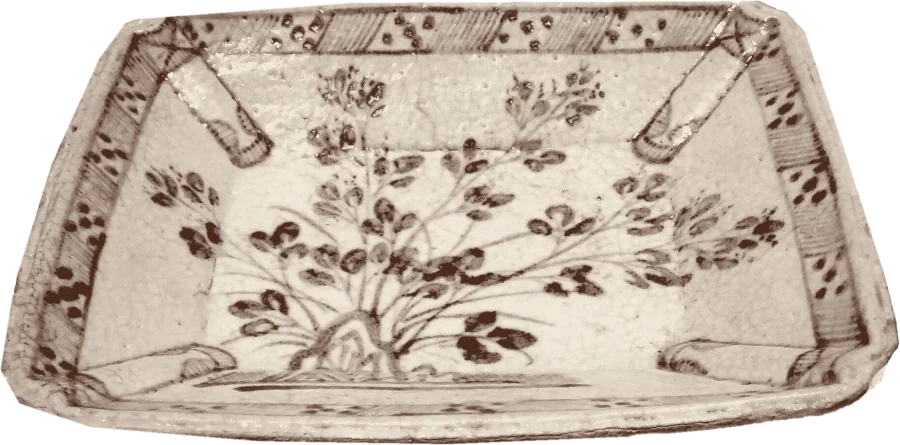
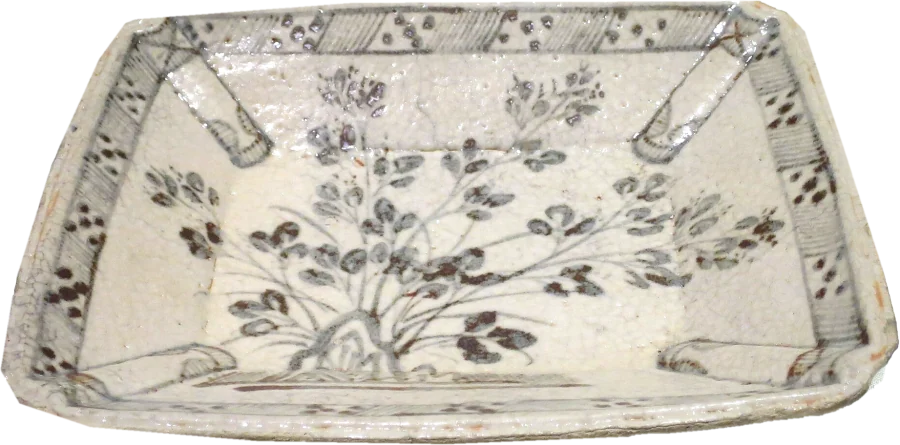
examples: 陶器市の器を写真の元の色に戻し、地・名前・印の色を器から取り直す
Claude-Session: https://claude.ai/code/session_01C7KHkfC2ABxbFbXkixZfP4

diff --git a/examples/toukiichi/index.html b/examples/toukiichi/index.html
@@ -22,8 +22,8 @@
   - 小さな手がかりは1つ：のぼり（最初の画面の「第三十八回」の縦の旗と、章の題の左の竿）。
 */
 :root{
-  --paper:#fff; --kinari:#f1e8d8; --kaiyu:#f1dccb; --sumi:#2a1a12; --rule:#d9cbb8; --mute:#4b4a5c; --pale:#f1e6d6;
-  --ai:#4a2a1c; --tsuchi:#2f5d45; --oribe:#2f5d45; --shu:#9a3b1e; --shino:#f1e8d8;
+  --paper:#fff; --kinari:#ebe4d6; --kaiyu:#f1dccb; --sumi:#2a1a12; --rule:#d9cbb8; --mute:#4b4a5c; --pale:#f1e6d6;
+  --ai:#4a3426; --tsuchi:#465c40; --oribe:#465c40; --shu:#9a3b1e; --shino:#ebe4d6;
   --fude:"Yuji Boku","Shippori Mincho B1",serif;
   --ease:cubic-bezier(.25,.46,.45,.94); --t1:.1s; --t2:.2s; --t3:.4s;
   --mincho:"Shippori Mincho B1","Hiragino Mincho ProN","Yu Mincho",serif;
@@ -257,14 +257,13 @@ dialog.skills::backdrop{background:rgba(26,23,20,.5)}
   *,*::before,*::after{transition-duration:0s!important;animation:none!important}
 }
 
-/* 最初の画面（2026-11-07 二度目）：雰囲気は窯の町の陶器市の世界から。織部の緑を1色に塗った地に、のぼりの筆の字で縦に大きく「瀬戸ノ口 陶器市」。
-   その前に、鉄釉の茶→志野の白の2色に置き換えて切り抜いた美濃焼4つ。飾りは窯の印（陶印）の丸1つで「三十八」。日本語は名前・日付・行き方だけ。
-   3色：織部の緑 #2f5d45（地）・志野の白 #f1e8d8（名前・器の光）・鉄釉の茶 #4a2a1c（器の影・印の字・ボタン）。 */
+/* 最初の画面（2026-11-16）：器は切り抜いただけで写真の元の色のまま（志野の白・織部の緑・鉄絵の色）。地・名前・印の色は器から取った：
+   地 #465c40（織部角鉢の緑 #344230 より少し明るくして器と分ける）・名前 #ebe4d6（志野の白）・印とボタンの字 #4a3426（鉄絵の茶）。 */
 .hero{position:relative;background:var(--tsuchi);color:var(--kinari);overflow:hidden;height:clamp(600px,calc(100svh - 100px),860px)}
 .hero .name{position:absolute;right:9%;top:5%;margin:0;writing-mode:vertical-rl;font:400 clamp(80px,9.6vw,140px)/1.12 var(--fude);letter-spacing:.04em;color:var(--kinari)}
 .hero .name span{display:block}
 .hero .name .l2{margin-top:1.1em}
-.ware{position:absolute;height:auto;filter:drop-shadow(0 16px 20px rgba(20,30,22,.35))}
+.ware{position:absolute;height:auto;filter:drop-shadow(0 16px 20px rgba(20,26,18,.4))}
 .w-ozara{width:38%;left:6%;bottom:-14%;transform:rotate(-7deg)}
 .w-chawan{width:30%;left:41%;bottom:-17%}
 .w-oribe{width:15%;left:44%;top:14%;transform:rotate(10deg)}
@@ -318,9 +317,9 @@ dialog.skills::backdrop{background:rgba(26,23,20,.5)}
       <img class="ware w-muko" src="photos/cut-mukouzuke.webp" width="900" height="445" alt="">
       <img class="ware w-ozara" src="photos/cut-ozara.webp" width="900" height="740" alt="">
       <img class="ware w-chawan" src="photos/cut-chawan.webp" width="900" height="781" alt="">
-      <svg class="inn" viewBox="0 0 120 120" role="img" aria-label="第三十八回"><circle cx="60" cy="60" r="56" fill="#f1e8d8"/><circle cx="60" cy="60" r="47" fill="none" stroke="#4a2a1c" stroke-width="3"/><text x="60" y="56" text-anchor="middle" font-family="Yuji Boku, serif" font-size="25" fill="#4a2a1c">三十八</text><text x="60" y="84" text-anchor="middle" font-family="Yuji Boku, serif" font-size="22" fill="#4a2a1c">回</text></svg>
+      <svg class="inn" viewBox="0 0 120 120" role="img" aria-label="第三十八回"><circle cx="60" cy="60" r="56" fill="#ebe4d6"/><circle cx="60" cy="60" r="47" fill="none" stroke="#4a3426" stroke-width="3"/><text x="60" y="56" text-anchor="middle" font-family="Yuji Boku, serif" font-size="25" fill="#4a3426">三十八</text><text x="60" y="84" text-anchor="middle" font-family="Yuji Boku, serif" font-size="22" fill="#4a3426">回</text></svg>
     </div>
-    <p class="credit">器：美濃焼4点の写真（Daderot・Wmpearl, CC0 1.0／<a href="https://commons.wikimedia.org/w/index.php?curid=31408730">Wikimedia Commons</a>）を切り抜いて鉄釉の茶と志野の白に色を変えた</p>
+    <p class="credit">器：美濃焼4点の写真（Daderot・Wmpearl, CC0 1.0／<a href="https://commons.wikimedia.org/w/index.php?curid=31408730">Wikimedia Commons</a>）を切り抜いた（色は元の写真のまま）</p>
   </section>
 
   <div class="wrap">
@@ -604,7 +603,7 @@ var FROM={
 };
 
 var SKILLS=[
- ['最初の画面','site-skills／aesthetic.md「最初の画面の作り方の方向」（2026-11-07）','aesthetic.md「雰囲気は題材の世界から取る」：織部の緑の1色の地に、のぼりの筆の字（Yuji Boku）で縦に大きく「瀬戸ノ口 陶器市」、その前に美濃焼4つ（手で輪郭を打って grabCut で切り抜き、鉄釉の茶→志野の白の2色に）を大きさを変えて重ねる。飾りは窯の印の丸「三十八回」1つ'],
+ ['最初の画面','site-skills／aesthetic.md「最初の画面の作り方の方向」（2026-11-07）','aesthetic.md「雰囲気は題材の世界から取る」：織部の緑の1色の地に、のぼりの筆の字（Yuji Boku）で縦に大きく「瀬戸ノ口 陶器市」、その前に美濃焼4つ（手で輪郭を打って grabCut で切り抜いた。色は元の写真のまま）を大きさを変えて重ねる。飾りは窯の印の丸「三十八回」1つ'],
  ['題の書体と太さ','site-skills／aesthetic.md「業種の手本を先に測る」','手本23件のいちばん大きい字は中央値 39.5px・太さ 400（80px 以上が5件）。題は 80px・太さ 500（Shippori Mincho B1）を墨色で。明朝はリュウミン・筑紫明朝・つくしA を使う手本がある'],
  ['本文','site-skills／手本23件の中央値','Noto Sans JP（Web フォントでいちばん多い）400・16px・行間 1.75。本文の色は #000 が10件なので黒に近い <code>#1a1714</code>'],
  ['文字の左端と余白','site-skills／手本23件の中央値','文字の左端 261px → 本文の幅 1000px。何も無い帯 72px（上位1割 199px）→ 章の間 120px'],

diff --git a/CREDITS.md b/CREDITS.md
@@ -25,7 +25,7 @@
 | `sento` | `photos/Shoes-boxes-at-a-Sento---Tokyo-area---Dec-22-2021.jpg` | Shoes boxes at a Sento - Tokyo area - Dec 22 2021 | Nesnad | CC BY 4.0 | https://commons.wikimedia.org/w/index.php?curid=113582446 |
 | `sento` | `photos/noren-yu-duotone.webp` | Noren at a sento by udono in Yoyogi, Tokyo（切り抜いて藍と生成りの2色に変えた） | udono from Public bath h | CC BY 2.0 | https://commons.wikimedia.org/w/index.php?curid=2798594 |
 | `toukiichi` | `photos/Noborigama-Tokoname-01.jpg` | Noborigama Tokoname 01 | Gryffindor | CC BY-SA 4.0 | https://commons.wikimedia.org/w/index.php?curid=63887246 |
-| `toukiichi` | `photos/cut-chawan.webp` | Tea Bowl known as 'Furisode', Mino ware, Shino type, Azuchi-Momoyama to Edo period, 16th-17th century - Tokyo National Museum - DSC05893（切り抜いて藍と生成りの2色に変えた） | Daderot | CC0 1.0 | https://commons.wikimedia.org/w/index.php?curid=31408730 |
-| `toukiichi` | `photos/cut-mukouzuke.webp` | Footed dish from Japan, early 17th century, Mino ware, Shino type, Dayton Art Institute（切り抜いて藍と生成りの2色に変えた） | Wmpearl | CC0 1.0 | https://commons.wikimedia.org/w/index.php?curid=46311317 |
-| `toukiichi` | `photos/cut-oribe.webp` | Square dish with bird design, Japan, Mino region, Gifu, approx. 1573-1615 AD, Ao-Oribe ware, stoneware with iron-oxide decoration under copper-oxide glaze - Asian Art Museum of San Francisco - DSC01499 retouch（切り抜いて藍と生成りの2色に変えた） | Daderot | CC0 1.0 | https://commons.wikimedia.org/w/index.php?curid=52285112 |
-| `toukiichi` | `photos/cut-ozara.webp` | File:Large dish with plant design, Japan, Mino region, Gifu, approx. 1573-1615 AD, E-Shino ware, stoneware with iron-oxide decoraton under feldspathic glaze - Asian Art Museum of San Francisco - DSC01502.JPG（切り抜いて藍と生成りの2色に変えた） | Daderot | CC0 1.0 | https://commons.wikimedia.org/w/index.php?curid=37194974 |
+| `toukiichi` | `photos/cut-chawan.webp` | Tea Bowl known as 'Furisode', Mino ware, Shino type, Azuchi-Momoyama to Edo period, 16th-17th century - Tokyo National Museum - DSC05893（切り抜いた。色は元のまま） | Daderot | CC0 1.0 | https://commons.wikimedia.org/w/index.php?curid=31408730 |
+| `toukiichi` | `photos/cut-mukouzuke.webp` | Footed dish from Japan, early 17th century, Mino ware, Shino type, Dayton Art Institute（切り抜いた。色は元のまま） | Wmpearl | CC0 1.0 | https://commons.wikimedia.org/w/index.php?curid=46311317 |
+| `toukiichi` | `photos/cut-oribe.webp` | Square dish with bird design, Japan, Mino region, Gifu, approx. 1573-1615 AD, Ao-Oribe ware, stoneware with iron-oxide decoration under copper-oxide glaze - Asian Art Museum of San Francisco - DSC01499 retouch（切り抜いた。色は元のまま） | Daderot | CC0 1.0 | https://commons.wikimedia.org/w/index.php?curid=52285112 |
+| `toukiichi` | `photos/cut-ozara.webp` | File:Large dish with plant design, Japan, Mino region, Gifu, approx. 1573-1615 AD, E-Shino ware, stoneware with iron-oxide decoraton under feldspathic glaze - Asian Art Museum of San Francisco - DSC01502.JPG（切り抜いた。色は元のまま） | Daderot | CC0 1.0 | https://commons.wikimedia.org/w/index.php?curid=37194974 |

diff --git a/examples/toukiichi/README.md b/examples/toukiichi/README.md
@@ -5,7 +5,12 @@
 - ページ：`index.html`（1枚の HTML、約55KB。外部は Google Fonts の3書体〔Noto Sans JP・Shippori Mincho B1・Klee One〕だけ。写真は `photos/`（切り抜いた器4つと登り窯）〔Wikimedia Commons、出典は `photos/credits.json`〕）
 - Artifact：https://claude.ai/artifact/TXFnEFtKe1fwRYM5HVcWpc （非公開。見せるには Artifact の共有メニューから共有する）
   - Artifact の中では「カレンダーに入れる」（.ics のダウンロード）が動かない（ビューアーがダウンロードを許さないため）。`index.html` をブラウザで直接開けば動く
-- 2026-10-26 に4回、2026-11-02・11-05 に1回ずつ、11-06 に4回作り直した。いちばん新しいのは下の「12回目の作り直し」。それより前の記録は「作り直しで変えたこと」
+- 2026-10-26 に4回、2026-11-02・11-05 に1回ずつ、11-06 に4回作り直した。いちばん新しいのは下の「13回目」。それより前の記録は「作り直しで変えたこと」
+
+## 13回目（2026-11-16）：器の色を元に戻す
+ユーザーの指摘「元々の色しっかり見えないとダメなやつは色変えちゃいけんでしょ？陶磁器もそうだけど」（`aesthetic.md`「元の色を見せる物は色を変えない」）。12回目で美濃焼4つを鉄釉の茶→志野の白の2色に塗り直していたのをやめ、切り抜いただけの元の色（志野の白と緋色、織部の緑、絵志野の鉄絵）に戻した。補正は白の色かぶりを4割だけ戻すことと明るさの合わせだけ。
+- 地・名前・印の色は器から取り直した：地 `#465c40`（織部角鉢の緑 `#344230` より少し明るくして器と分ける）・名前 `#ebe4d6`（志野の白）・印とボタンの字 `#4a3426`（鉄絵の茶）。名前と地の差 5.79:1。
+- 出典の「色を変えた」を「切り抜いた（色は元の写真のまま）」に直し、`photos/credits.json`・`CREDITS.md` も合わせた。
 
 ## 12回目の作り直し（2026-11-07）：雰囲気を窯の町から取る
 11回目（陶土の朱・英字 SETONOKUCHI の Fraunces・手書きの the 38th!・星形）は「全然雰囲気に全部合ってない」と言われた。好きと言われた9枚の**見た目**（アメリカの70年代風の英字、NOVA の色）をそのまま当てたため。`aesthetic.md`「雰囲気は題材の世界から取る」に従い、手順（主役を大きく・2〜3色・字を形にする・日本語は少なく）だけ残して、見た目は窯の町の陶器市から取り直した。
